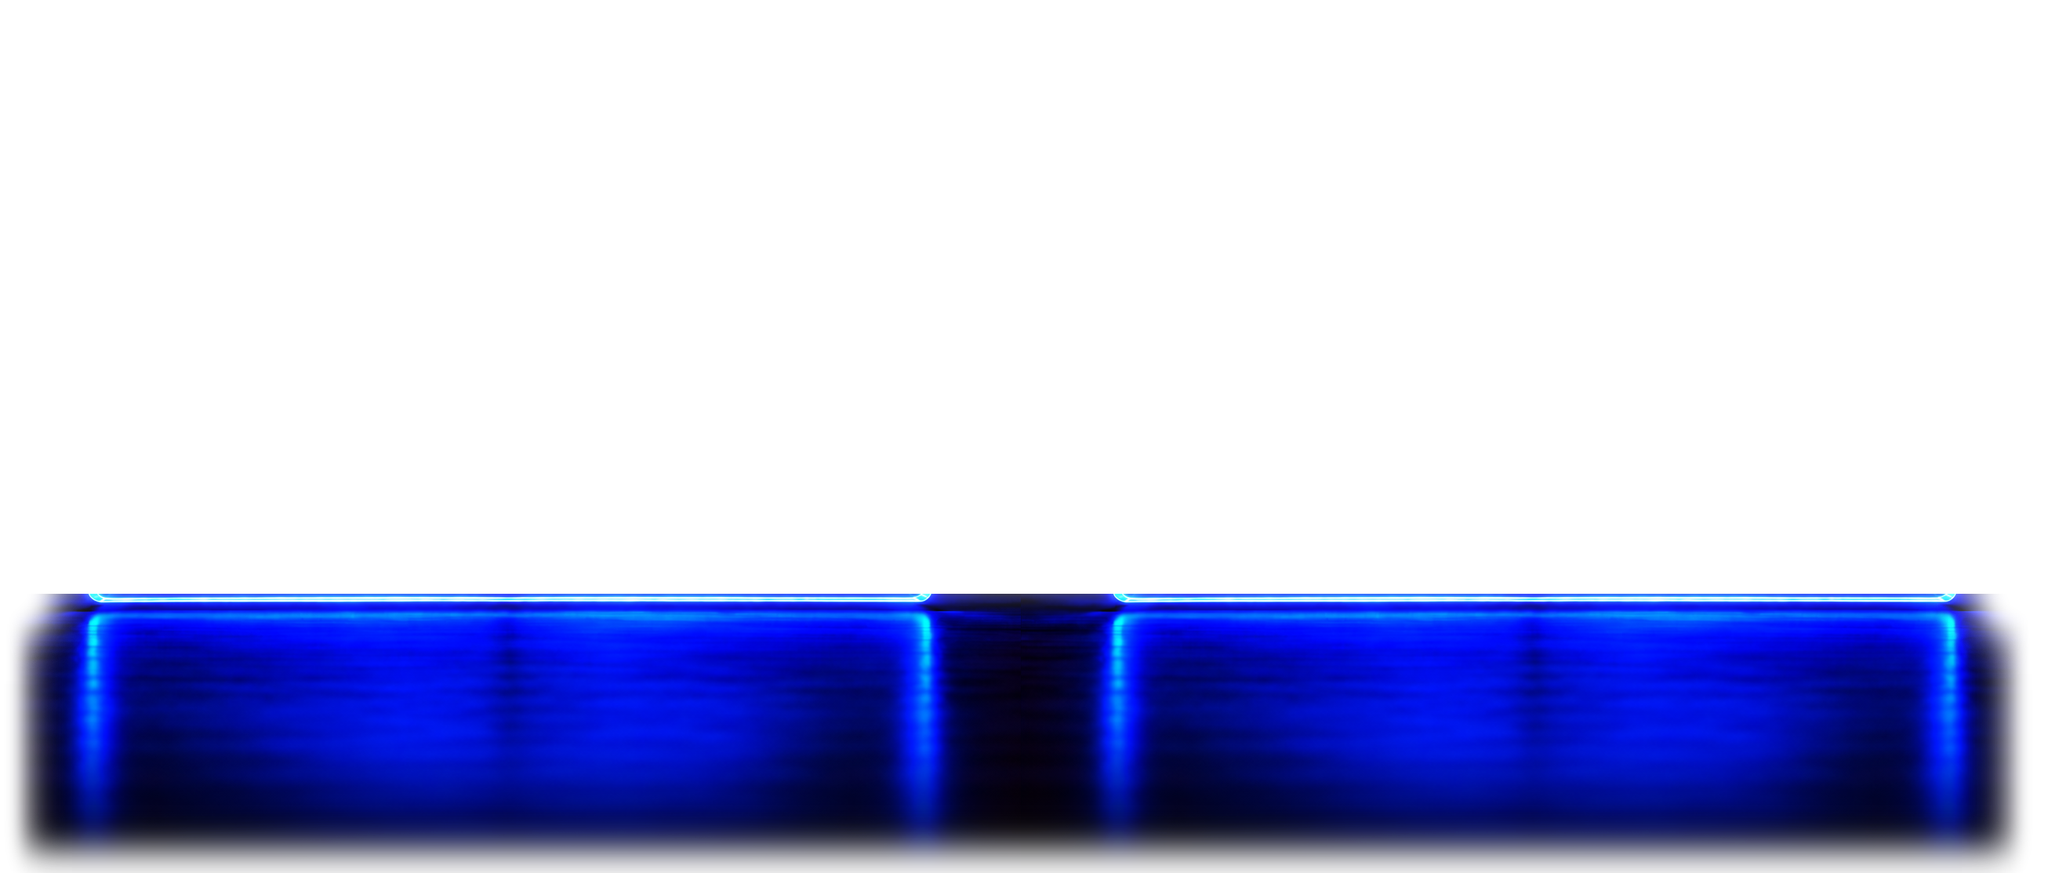
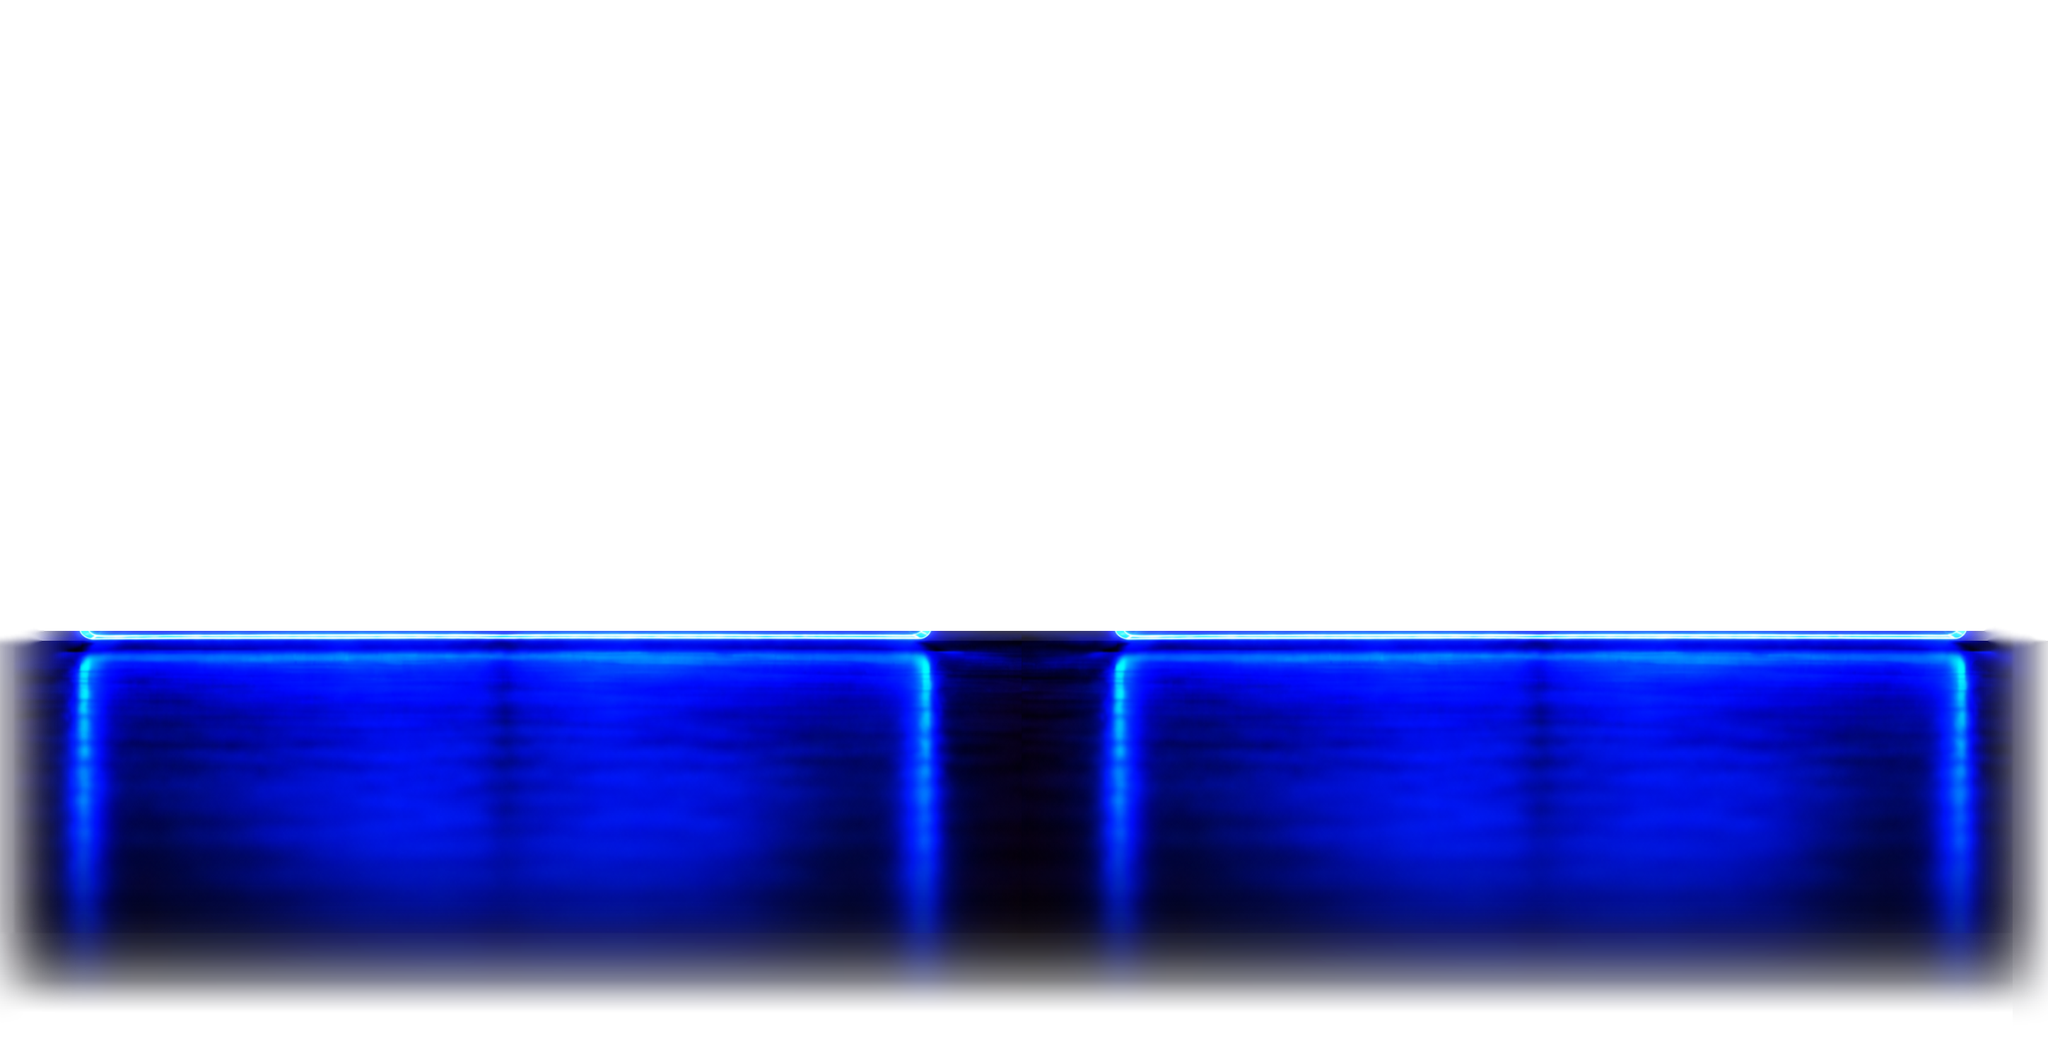
vu store: Blue Neon v2, the meter sits higher in Now Playing
The designer's new artwork (2897x1503) keeps empty rows under the
reflection to lift the meter on the Now Playing screen: the whole canvas is
used. Measured again on it; the scale angles are unchanged. Published as
blue-neon-2, devices with v1 update by themselves.

diff --git a/vu-store/README.md b/vu-store/README.md
@@ -39,7 +39,7 @@ pixels):
 | `aluminium` | VU Aluminium Style: under quadrante fix, over frame; v2 lancette | 750,830 / 230..1020 | 38.5,1041.91 | 796.59,1271.91 · 2024.46,1275.09 | -34.6,33.0 |
 | `glossy` | VU Glossy: under quadrante, over frame | 650,936 / 347..1170 | 143.0,761.5 | 793.0,1108.5 · 2014.0,1108.5 | -44.15,43.4 |
 | `titanium` | VU Titanium 2: under scala e magneti, over frame; red rod 57 px longer | 614,893 / 92..925 | 137.5,762.5 | 751.5,850.5 · 2096.5,850.5 | -45.31,44.86 |
-| `blue-neon` | VU Blue Meta: under BACK, over TOP (2612x1113) | 638,667 / 236..1000 | 14.5,907.6 | 642.0,1143.6 · 1949.0,1143.6 | -31.42,33.58 |
+| `blue-neon` | VU Blue Meta 2: under Back, over Top-2 (2897x1503, v2) | 700,730 / 307..1209 | 14.5,1018.8 | 705.6,1325.8 · 2170.1,1325.7 | -31.40,33.57 |
 
 The v2 Aluminium needle leans slightly in the artwork (tip at x 792, collar
 at 788.5): its axis is the collar's centre.
@@ -81,7 +81,8 @@ to the panel, so a corner that leaves the canvas is drawn over the Now Playing
 background.
 
 Blue Neon draws no coil: its straight needle turns on the centre of the scale
-arc (circle fit on the arc's lower edge, 0.9 px off on average; the ticks are
-radial about it), 30 px below the artwork and 10.5 px left of the drawn
-needle's axis. The cut stops at row 1000, so at any angle what is left of the
-needle's foot stays under the opaque band of the reflection (rows 800..1050).
+arc (circle fit on the arc's lower edge, 1 px off on average; the ticks are
+radial about it), 9 px left of the drawn needle's axis. The whole needle, foot
+included, stays under the opaque band of the reflection (rows 906..1292) at
+any angle. The empty rows under the reflection are meant: they lift the meter
+in Now Playing, so the canvas is used whole, not cropped to what is drawn.
